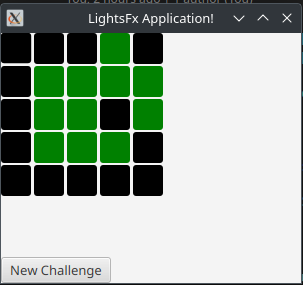
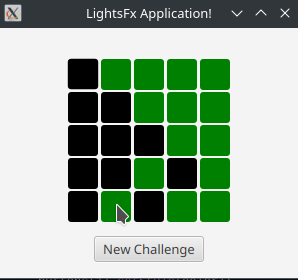
layou improved, centralized, screenshot changed

diff --git a/src/main/java/com/example/lightsfx/panel/MyPanel.java b/src/main/java/com/example/lightsfx/panel/MyPanel.java
@@ -7,6 +7,8 @@ import javafx.scene.control.Button;
 import javafx.scene.layout.GridPane;
 import javafx.event.ActionEvent;
 import javafx.event.EventHandler;
+import javafx.geometry.Insets;
+import javafx.geometry.Pos;
 
 public class MyPanel {
 
@@ -22,16 +24,20 @@ public class MyPanel {
        {new myButton(),new myButton(),new myButton(),new myButton(),new myButton()}
    };
     public GridPane gridPane = new GridPane();
+    
     public GridPane gridPane() {
         gridPane.setHgap(3); 
         gridPane.setVgap(3); 
         setActions(buttons);
+        gridPane.setPadding(new Insets(15, 12, 15, 12));
+        gridPane.setAlignment(Pos.CENTER);
         return gridPane;
     }
 
 
     public Button resetPanel(){    
         Button resetBtn = new Button();
+        
         
         resetBtn.setText("New Challenge");
         resetBtn.setOnAction(new EventHandler<ActionEvent>() {

diff --git a/src/main/java/com/example/lightsfx/LightsFx.java b/src/main/java/com/example/lightsfx/LightsFx.java
@@ -1,8 +1,10 @@
 package com.example.lightsfx;
 import com.example.lightsfx.panel.MyPanel;
 import javafx.application.Application;
+import javafx.geometry.Pos;
 import javafx.scene.Scene;
 import javafx.scene.layout.BorderPane;
+import javafx.scene.layout.VBox;
 import javafx.stage.Stage;
 
 public class LightsFx extends Application {
@@ -24,8 +26,11 @@ public class LightsFx extends Application {
        
         MyPanel myPanel = new MyPanel();
         myPanel.placingButtons(myPanel.gridPane);
-        root.setCenter(myPanel.gridPane());
-        root.setBottom(myPanel.resetPanel());
+        VBox vBox = new VBox();
+        vBox.getChildren().addAll(myPanel.gridPane(),myPanel.resetPanel());
+        vBox.setAlignment(Pos.CENTER);
+        root.setCenter(vBox);
+        
         primaryStage.setScene(new Scene(root, 300, 250));
         primaryStage.show();
     }
